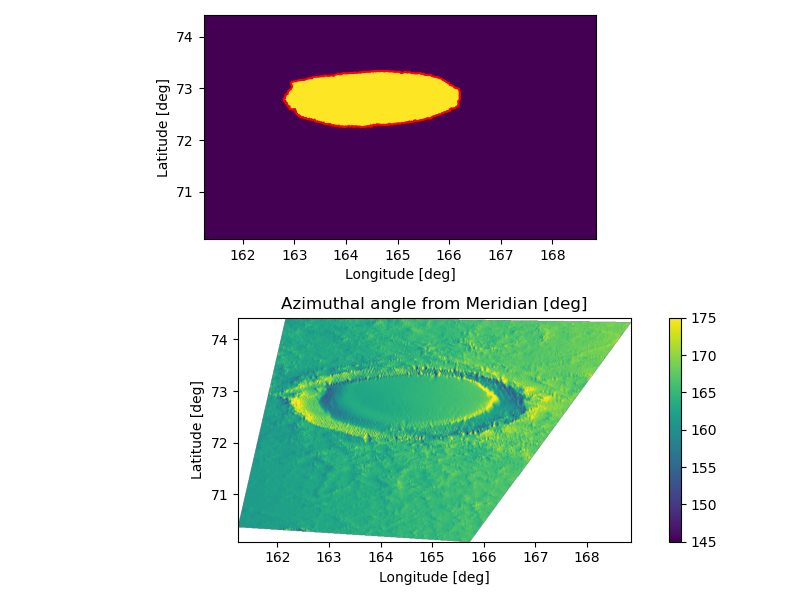
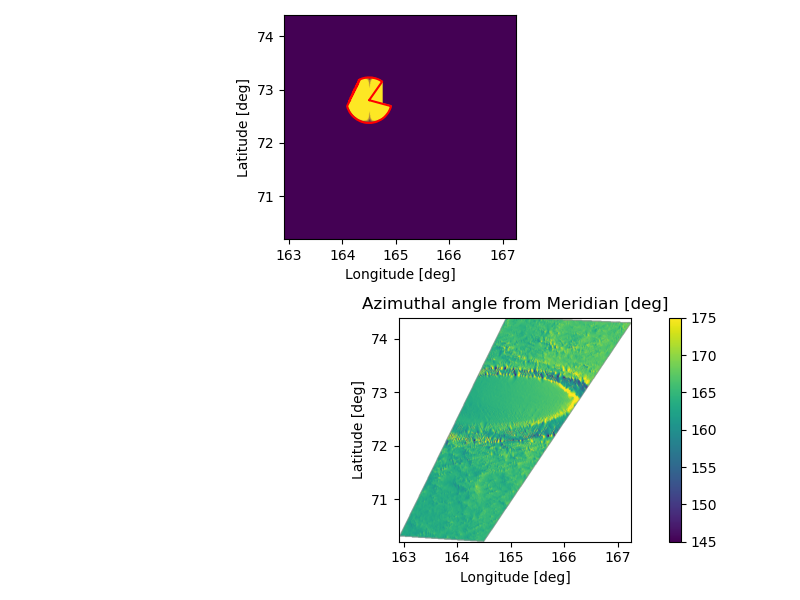
Increased facet resolution to see subsurface line at shallower depths

diff --git a/examples/KOROLEV/code/TiffToFacets.py b/examples/KOROLEV/code/TiffToFacets.py
@@ -11,12 +11,13 @@ import unit_convs as uc
 
 # path to mars radius DEM
 #path = r"data/MOLA/RCropped.tif"
-path = r"data/MOLA/MOLA_R_KOROLEV.tif"
+#path = r"data/MOLA/MOLA_R_KOROLEV.tif"
+path = r"data/MOLA/MOLA_R_KOROLEV_TIGHT.tif"
 
 # mars radius offset
 MARS_RADIUS = 3396000
 
-data, tpar = ku.load_cropped_mola_tif(path, upsample=2)
+data, tpar = ku.load_cropped_mola_tif(path, upsample=4)
 
 # compute the resolution in meters along latitude to get the square side of each pixel
 resolution = uc.dLat_to_m(tpar['scl_lat'], MARS_RADIUS)
@@ -138,7 +139,7 @@ for i in range(mask.shape[1]):
 mask = mask.astype(bool)
 
 # find the radius of mars to the middle of the crater to create a subsurface mars radius "depth"
-crater_depth = 300#1500
+crater_depth = 2000
 subsrf_rad = data_Rs[kcenI_lat, kcenI_lon] - crater_depth
 
 # plot vector normals in spherical
@@ -288,14 +289,15 @@ frs, fxs, fys, fzs, fnxs, fnys, fnzs, fuxs, fuys, fuzs, fvxs, fvys, fvzs = [
 sbxs, sbys, sbzs, sbnxs, sbnys, sbnzs = [
     arr.flatten()[::20] for arr in (sbxs, sbys, sbzs, sbnxs, sbnys, sbnzs)
 ]
-
+"""
 # export subsurface as obj file
 ku.target_norms_to_obj("data/Subsurface", "KOR_T", 
                         sbxs, sbys, sbzs,
                         sbnxs, sbnys, sbnzs, norms=False)
-#ku.target_norms_to_file("data/Subsurface", "KOR_T", 
-#                        sbxs, sbys, sbzs,
-#                        sbnxs, sbnys, sbnzs)
+ku.target_norms_to_file("data/Subsurface", "KOR_T", 
+                        sbxs, sbys, sbzs,
+                        sbnxs, sbnys, sbnzs)
+"""
 
 fig, ax = plt.subplots(2, 2, figsize=(14, 8))
 ax[0, 0].scatter(fxs, fys, s=1, c=frs)
@@ -327,7 +329,7 @@ with open(facet_file, 'w') as f:
 # generate a target file
 # place the target 1 km deep (ish b/c straight along axis) in the center of the ice mound
 # use the same normal as the facet above the target ("upwards")
-
+"""
 facet_above_target = 35083
 tx, ty, tz = fxs[facet_above_target], fys[facet_above_target], fzs[facet_above_target] - 0.4e3
 tnx, tny, tnz = [n[facet_above_target] for n in (fnxs, fnys, fnzs)]
@@ -335,7 +337,7 @@ tnx, tny, tnz = [n[facet_above_target] for n in (fnxs, fnys, fnzs)]
 target_file = "data/Subsurface/KOR_T.txt"
 with open(target_file, 'w') as f:
     f.write(f"{tx},{ty},{tz},{tnx},{tny},{tnz}")
-
+"""
 
 
 def export_obj_points_colored(filename, xs, ys, zs, values, nxs, nys, nzs, cmap_name="magma", vmin=None, vmax=None, nscale=0.5e3):

diff --git a/examples/KOROLEV/code/params.py b/examples/KOROLEV/code/params.py
@@ -15,12 +15,12 @@ params = {
     "frequency": 20e6,        # Radar frequency [Hz]
     "bandwidth": 10e6,        # Radar bandwidth [Hz]
     "surface_gain": 20,       # Antenna gain [dB]
-    "subsurface_gain": 30,    # Subsurface antenna gain [dB]
+    "subsurface_gain": 35,    # Subsurface antenna gain [dB]
     "polarization": "HH",     # polarization (HH, VV, HV, VH)
     "aperture": 1,            # aperture (from nadir->edge) [deg]
 
     # receive window parameters
-    "rx_window_m":  12e3,         # receive window length [m]
+    "rx_window_m":  7.5e3,         # receive window length [m]
     "rx_window_offset_m": 300e3,  # receive window offset [m]
     "rx_sample_rate": 40e6,       # receive sample rate [Hz]
     "rx_window_position_file": "data/rx_window_positions.txt",
@@ -41,10 +41,11 @@ params = {
     "source_path_file": "data/Observation/s_00554201_srcs.txt",
 
     # facet params
-    "fs": 463.114129,              # facet size [m]
+    "altitude": 316e3,           # approximate altitude [m]
+    "fs": 115.66,              # facet size [m]
 
     # target params
-    "rerad_funct": 1,  # 3-degree boxcar
+    "rerad_funct": 2,  # 3-degree boxcar
 
     # processing parameters (BOOLEAN)
     "convolution": True,   # use convolution-based processing
@@ -115,7 +116,7 @@ ku.sources_norms_to_obj(DIRECTORY, OBS, sat_x, sat_y, sat_z, n_hat[:, 0], n_hat[
 # MAKE SUBSURFACE TARGETS
 
 # make some test subsurface targets directly beneath source
-tar_x, tar_y, tar_z = ku.planetocentric_to_cartesian(geometry['SRAD']-320, geometry['LAT'], geometry['LON'])
+tar_x, tar_y, tar_z = ku.planetocentric_to_cartesian(geometry['SRAD']-317, geometry['LAT'], geometry['LON'])
 tar_x = tar_x[500:1500]
 tar_y = tar_y[500:1500]
 tar_z = tar_z[500:1500]
@@ -128,7 +129,9 @@ tar_x, tar_y, tar_z = uc.km_to_m(tar_x, tar_y, tar_z)
 
 
 # export as source file and obj
+ku.target_norms_to_obj("data/Subsurface", "KOR_T", tar_x, tar_y, tar_z, n_hat[:, 0], n_hat[:, 1], n_hat[:, 2], norms=False)
 ku.target_norms_to_file("data/Subsurface", "KOR_T", tar_x, tar_y, tar_z, n_hat[:, 0], n_hat[:, 1], n_hat[:, 2])
+
 
 """
 # MAKE BASIC SIMPLE SURFACE

diff --git a/examples/KOROLEV/code/plots.py b/examples/KOROLEV/code/plots.py
@@ -72,8 +72,8 @@ plotpar = {
     'ymax': ymax,
     'rea_min': np.min(NoOffset),
     'rea_max': 0.001,
-    'syn_min': 43,
-    'syn_max': 50,
+    'syn_min': 18,
+    'syn_max': 23,
 }
 
 # plot
@@ -82,4 +82,4 @@ rp.plot_SHARAD_comparison(NoOffset, foc_intrp, geometry, aeroid, mola, plotpar)
 
 # generate final plot
 geometry = ku.load_sharad_orbit_PKL(DIRECTORY, OBS)
-rp.plot_unfoc_foc(rdr_db, foc_db, rx_win, OBS, geometry=geometry, rdrmin=30, rdrmax=40, focmin=40, focmax=55)
+rp.plot_unfoc_foc(rdr_db, foc_db, rx_win, OBS, geometry=geometry, rdrmin=30, rdrmax=40, focmin=plotpar['syn_min'], focmax=plotpar['syn_max'])
